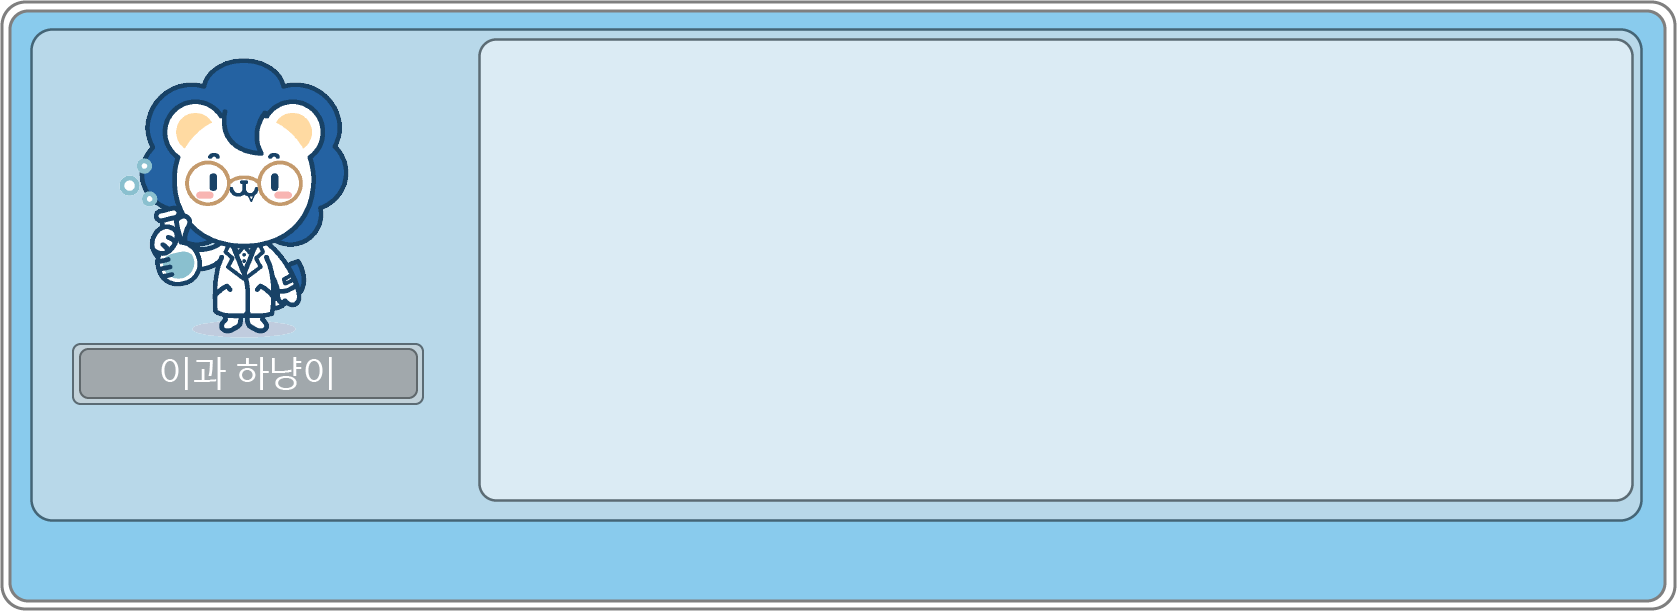
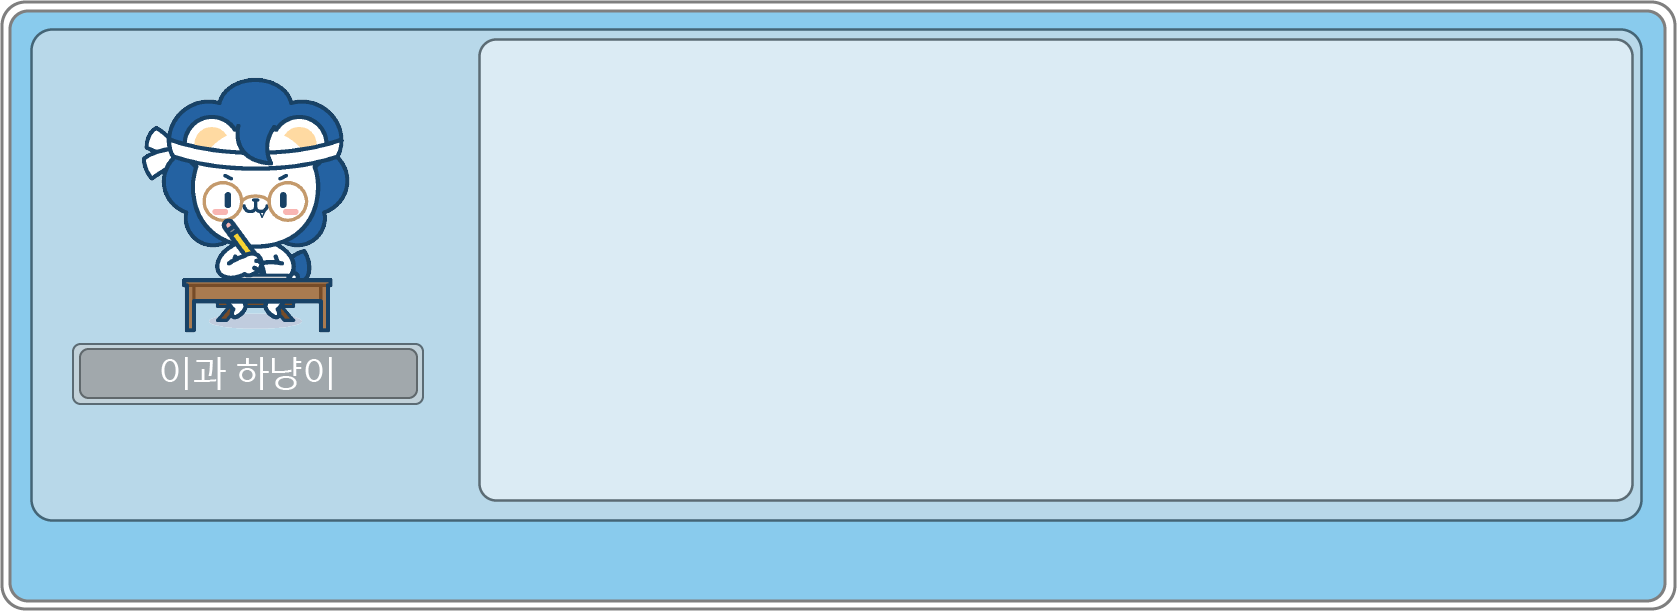
이과 하냥이 이미지 변경, 구슬조각 위치 변경, 이미지 이탈 시 트래킹 오브젝트 삭제

Changed region(s): [[0.062, 0.0933, 0.2171, 0.5597]]

diff --git a/Assets/2. Scripts/ARFoundation/MultipleImageTracker.cs b/Assets/2. Scripts/ARFoundation/MultipleImageTracker.cs
@@ -30,19 +30,20 @@ public class MultipleImageTracker : MonoBehaviour
         }
         foreach(ARTrackedImage trackedImage in eventArgs.updated)
         {
-            UpdateSpawnObject(trackedImage);
+            if(trackedImage.trackingState == UnityEngine.XR.ARSubsystems.TrackingState.Tracking) UpdateSpawnObject(trackedImage);
+            else spawnedObjects[trackedImage.referenceImage.name].SetActive(false);
         }
-        foreach(ARTrackedImage trackedImage in eventArgs.removed)
-        {
-            spawnedObjects[trackedImage.name].SetActive(false);
-        }
+        // foreach(ARTrackedImage trackedImage in eventArgs.removed)
+        // {
+        //      spawnedObjects[trackedImage.name].SetActive(false);  
+        // }
     }
 
     void UpdateSpawnObject(ARTrackedImage trackedImage)
     {
         string referenceImageName = trackedImage.referenceImage.name;
 
-        spawnedObjects[referenceImageName].transform.position = new Vector3(trackedImage.transform.position.x -0.25f,trackedImage.transform.position.y + 0.3f,trackedImage.transform.position.z);
+        spawnedObjects[referenceImageName].transform.position = new Vector3(trackedImage.transform.position.x -0.1f,trackedImage.transform.position.y + 0.15f,trackedImage.transform.position.z);
         spawnedObjects[referenceImageName].transform.rotation = trackedImage.transform.rotation;
 
         spawnedObjects[referenceImageName].SetActive(true);
